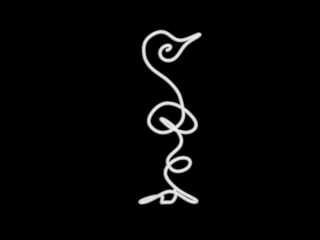
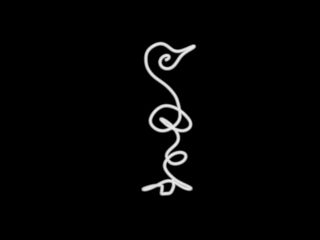
corrected the rotation angle of the camera and the results are better without fracture; but still not so good for that the upside is down now

Changed region(s): [[0.4375, 0.1167, 0.625, 0.875]]

diff --git a/visualhull.m b/visualhull.m
@@ -9,29 +9,11 @@ close all;
 %% Load the Camera and Image Data.
 cameras = loadcameradata( datadir );
 
-montage( cat( 4, cameras.Image ) );
-set( gcf(), 'Position', [100 100 600 600] )
-title( 'Dataset' )
-axis off;
-
 %% Silhouettes
 for c=1:numel(cameras)
     cameras(c).Silhouette = getsilhouette( cameras(c).Image );
 end
 
-figure('Position',[100 100 600 300]);
-
-subplot(1,2,1)
-imshow( cameras(c).Image );
-title( 'Original Image' )
-axis off
-
-subplot(1,2,2)
-imshow( cameras(c).Silhouette );
-title( 'Silhouette' )
-axis off
-
-makeFullAxes( gcf );
 
 %% Work out the space
 [xlim,ylim,zlim] = findmodel( cameras );
@@ -40,58 +22,31 @@ t2 = clock;
 etime(t2,t1);
 
 %% Create a Voxel Array
-voxels = makevoxels( xlim, ylim, zlim, 6000000 );
+voxels = makevoxels( xlim, ylim, zlim, 600000 );
 starting_volume = numel( voxels.XData );
 
 figure('Position',[100 100 600 400]);
 showscene( cameras, voxels );
 
-%% Carve the Voxels Using the First Camera Image
 
-voxels = carve( voxels, cameras(1) );
-
-% Show Result
-figure('Position',[100 100 600 300]);
-subplot(1,2,1)
-showscene( cameras(1), voxels );
-title( '1 camera' )
-subplot(1,2,2)
-showsurface( voxels )
-title( 'Result after 1 carving' )
-
-
-% Add More Views
-% Adding more views refines the shape. If we include two more, we already
-% have something recognisable, albeit a bit "boxy".
-voxels = carve( voxels, cameras(4) );
-voxels = carve( voxels, cameras(7) );
-
-% Show Result
-figure('Position',[100 100 600 300]);
-subplot(1,2,1)
-title( '3 cameras' )
-showscene( cameras([1 4 7]), voxels );
-subplot(1,2,2)
-showsurface(voxels)
-title( 'Result after 3 carvings' )
-
-
-%% Now Include All the Views
-
+%% Include All the Views
 for ii=1:numel(cameras)
     voxels = carve( voxels, cameras(ii) );
 end
+
 figure('Position',[100 100 600 700]);
 showsurface(voxels)
 
 set(gca,'Position',[-0.2 0 1.4 0.95])
 
-title( 'Result after 100 carvings' )
+title( 'Result after 10 carvings' )
 az = 0;
-el = 90;
+% changet the vertical elevation of the view point in degree to make the
+% upside up in the view 180
+el = 180;
 view(az, el);
-%view(3);
 axis off
+
 final_volume = numel( voxels.XData );
 fprintf( 'Final volume is %d (%1.2f%%)\n', ...
     final_volume, 100 * final_volume / starting_volume )
@@ -120,7 +75,7 @@ figure('Position',[100 100 600 700]);
 showsurface( voxels );
 set(gca,'Position',[-0.2 0 1.4 0.95])
 axis off
-title( 'Result after 100 carvings with refinement' )
+title( 'Result after 10 carvings with refinement' )
 
 
 %% Final Result
@@ -129,7 +84,7 @@ ptch = showsurface( voxels );
 colorsurface( ptch, cameras );
 set(gca,'Position',[-0.2 0 1.4 0.95])
 axis off
-title( 'Result after 100 carvings with refinement and colour' )
+title( 'Result after 10 carvings with refinement and colour' )
 
 t3 = clock;
 etime(t3,t2);

diff --git a/RotPosCal.m b/RotPosCal.m
@@ -27,29 +27,16 @@ cameras = struct( ...
     'R', {}, ...
     'T', {});
 
-for i=1:100
+for i=1:10
     
     cameras(i).K = K;
     
-    thetaY = (pi/50) * i;
+    thetaY = -(pi/5) * i;
     posx = 80 * cos( pi/2 + thetaY);
     posy = 80 * sin( pi/2 + thetaY);
     posz = 0;
     T = [posx; posy; posz];
     cameras(i).T = T;
-    
-    
-%     thetaY = - thetaY;
-%     RotY = [cos(thetaY), 0, sin(thetaY); 0, 1, 0; -sin(thetaY), 0, cos(thetaY)];
-
-%     R = RotY * RotX * RotZ;
-
-%     r = -T;
-%     theta = norm(r);
-%     r = r/theta;
-%     
-%     tempR = [0, -r(3), r(2); r(3), 0, -r(1); -r(2), r(1), 0];
-%     R = cos(theta)*eye(3) + (1 - cos(theta))*(r*r') + sin(theta)* tempR;
 
     iB = [1;0;0];
     jB = [0;1;0];

diff --git a/+spacecarving/findmodel.m b/+spacecarving/findmodel.m
@@ -31,7 +31,7 @@ yrange = diff( ylim );
 ylim = ylim + yrange/4*[1 -1];
 
 % Now perform a rough and ready space-carving to narrow down where it is
-voxels = spacecarving.makevoxels( xlim, ylim, zlim, 6000000 );
+voxels = spacecarving.makevoxels( xlim, ylim, zlim, 600000 );
 
 for ii=1:numel(cameras)
     voxels = spacecarving.carve( voxels, cameras(ii) );

diff --git a/+spacecarving/loadcameradata.m b/+spacecarving/loadcameradata.m
@@ -9,7 +9,7 @@ function cameras = loadcameradata(dataDir, idx)
 
 
 if nargin<2
-    idx = 1:100;
+    idx = 1:10;
 end
 
 %Here is camera definition.
